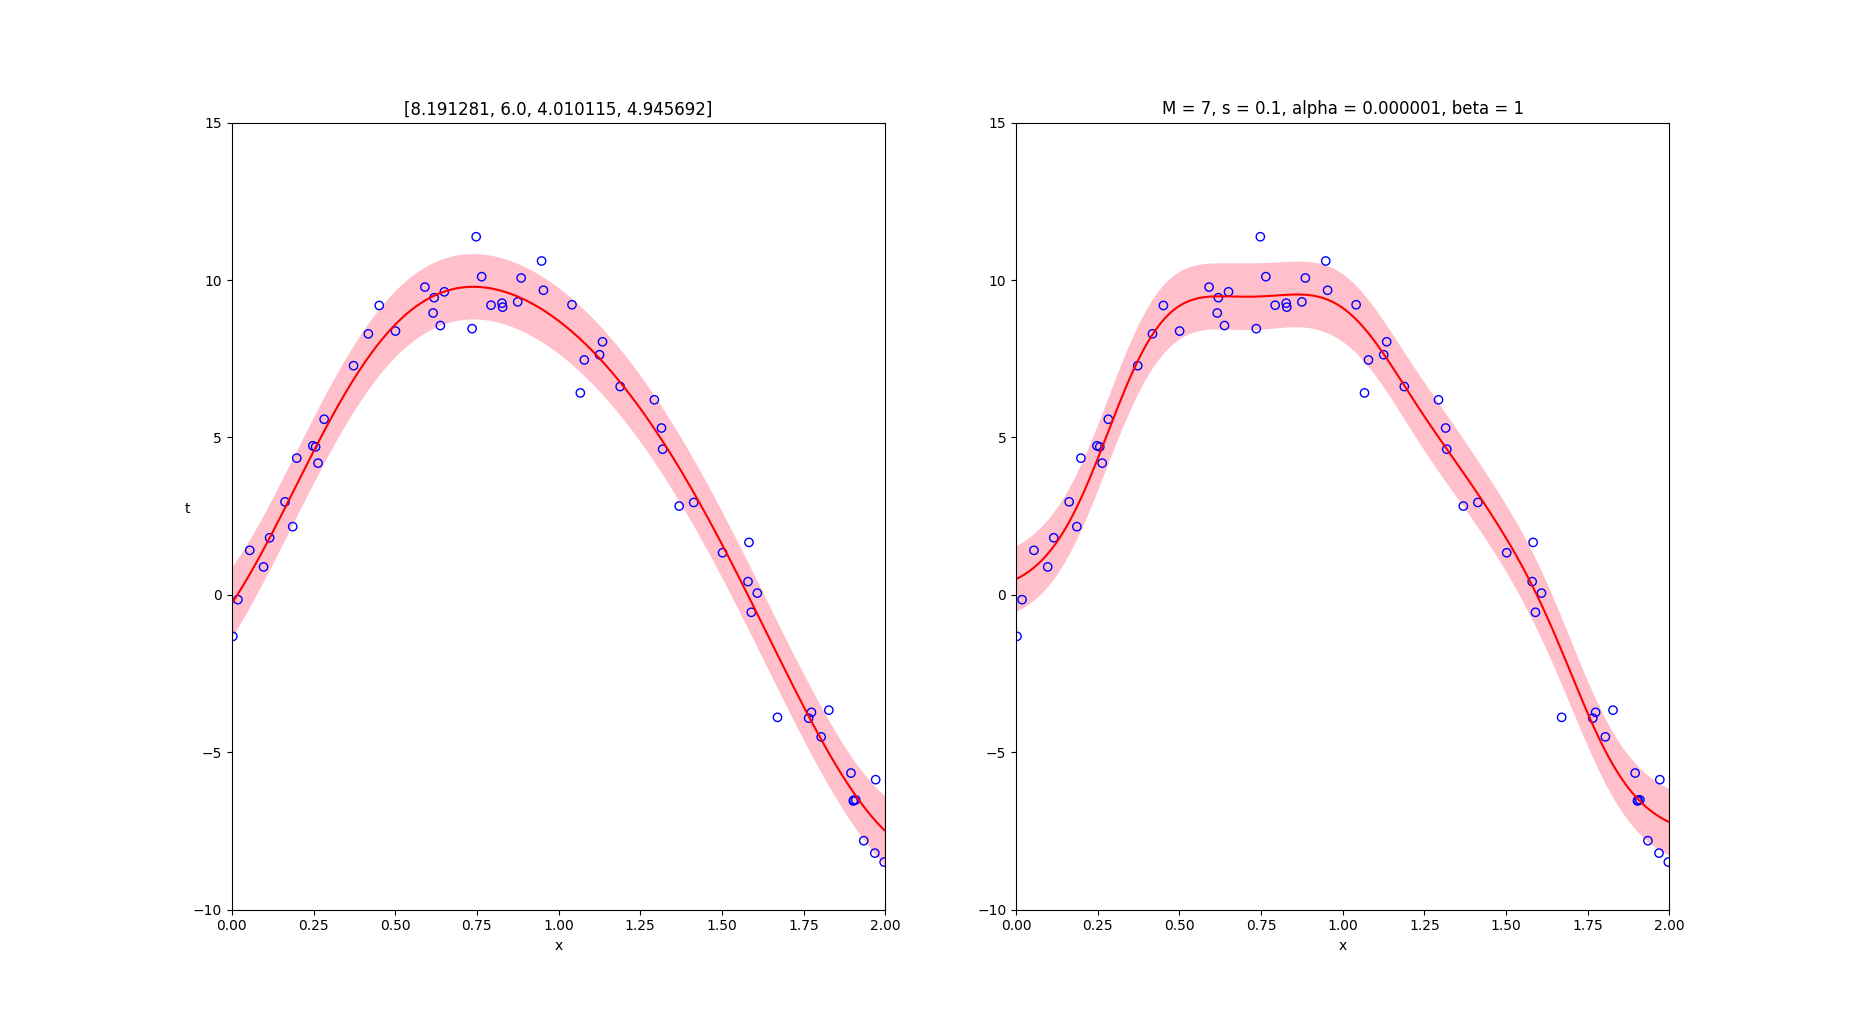
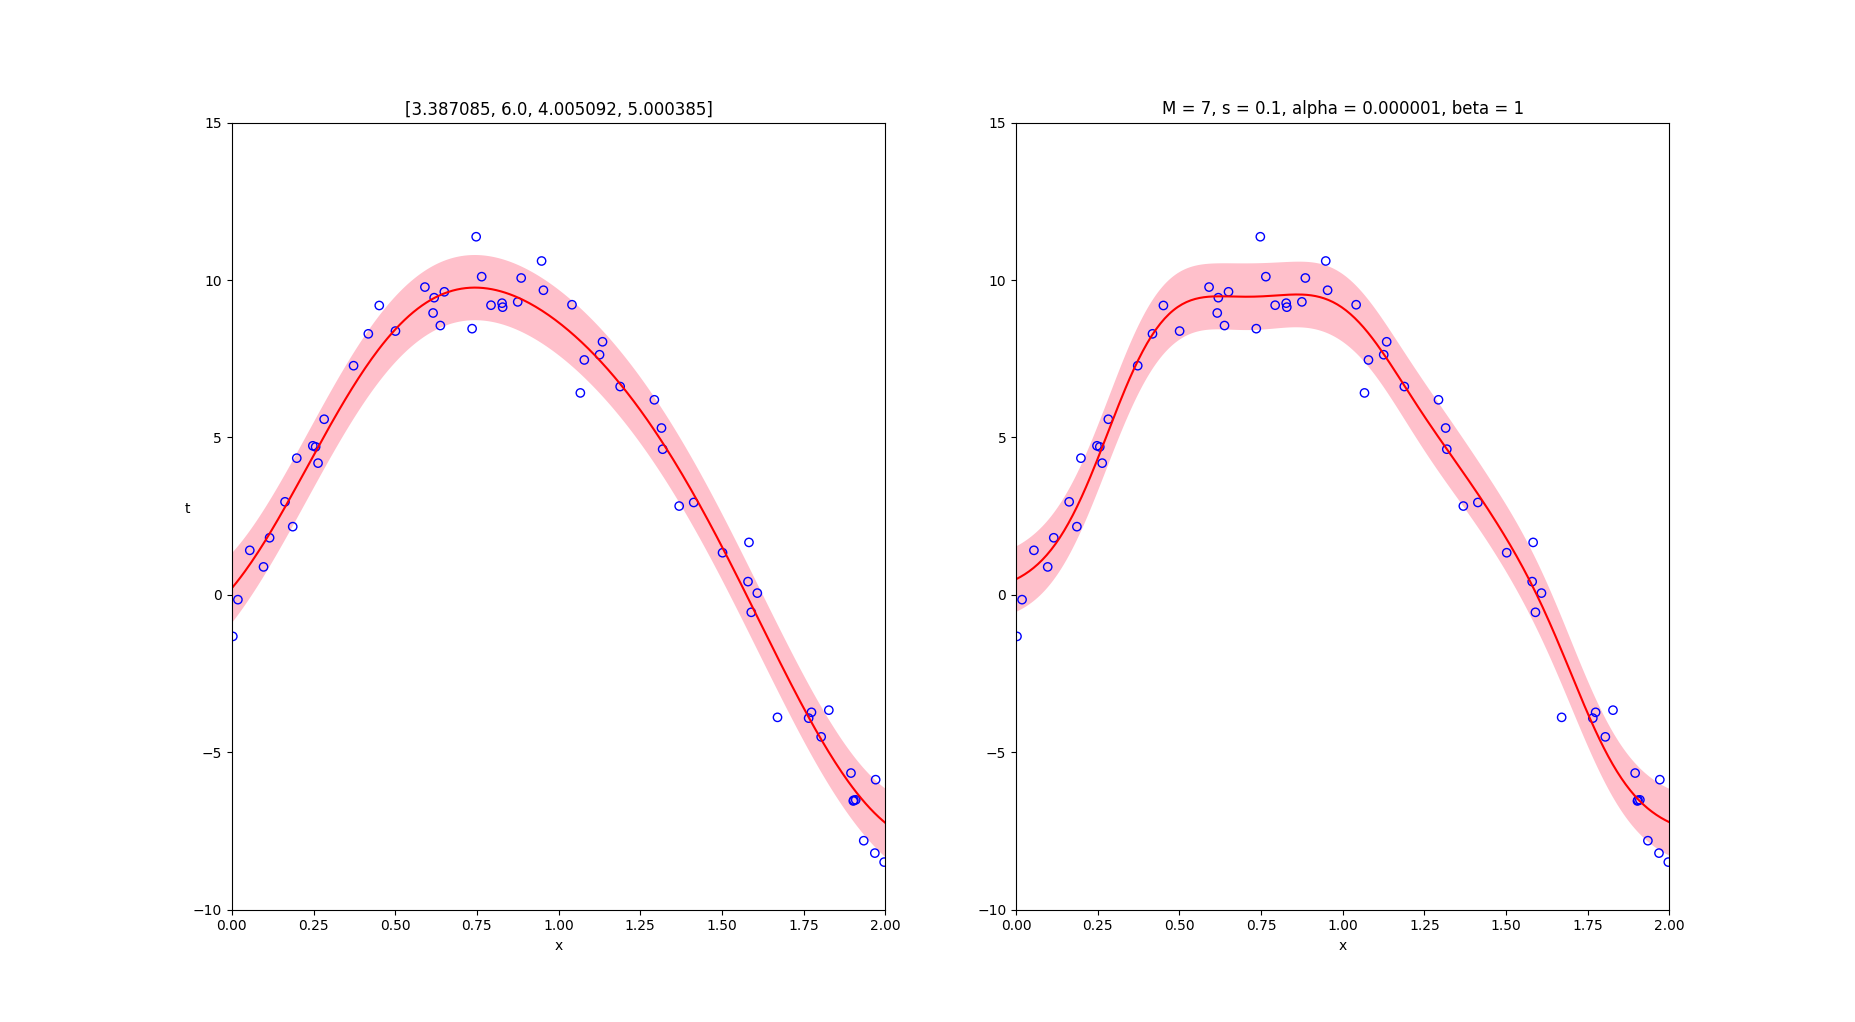
modified some errors.

diff --git a/svm.py b/svm.py
@@ -11,11 +11,15 @@ parser = argparse.ArgumentParser(description='ML HW3 - svm')
 def get_w_b(a, t, x):
     at = a*t
     w = at.dot(x)
-    Ns = np.count_nonzero(a)
-    indice = np.nonzero(a)[0]
-
-    b = np.sum(t[indice]) - np.sum(np.linalg.multi_dot([at[indice], x[indice], x[indice].T]))
-    b /= Ns
+    indice_s = np.nonzero(a)[0]
+    indice_m = np.where((0 < a) & (a < 1))[0]
+    Nm = len(indice_m)
+    Ns = len(indice_s)
+    if Nm == 0:
+        b = -1
+    else:
+        b = np.sum(t[indice_m]) - np.sum(np.linalg.multi_dot([at[indice_s], x[indice_s], x[indice_m].T]))
+        b /= Nm
     return w, b
 
 def predict(W, B, X, label):

diff --git a/ARD_gaussian_process.py b/ARD_gaussian_process.py
@@ -25,7 +25,7 @@ if __name__ == '__main__':
 
     parameters = [[3, 6, 4, 5]]
     dev_func = [0, 0, 0, 0]
-    learning_rate = 0.01
+    learning_rate = 0.001
 
     table = PrettyTable(["optimal parameters", "train error", "test error"])
 
@@ -53,7 +53,7 @@ if __name__ == '__main__':
         dev_func[3] = dev_log_like(C_inv, np.multiply.outer(train_x, train_x), train_t)
         parameters.append([p + learning_rate * dev for p, dev in zip(parameters[-1], dev_func)])
 
-        if max(map(abs, dev_func)) < 1:
+        if np.max(np.abs(dev_func)) < 6:
             break
 
     params = np.array(parameters)

diff --git a/README.md b/README.md
@@ -39,7 +39,7 @@ For ARD gaussian process
 +-------------------------------------+----------------+---------------+
 |          optimal parameters         |  train error   |   test error  |
 +-------------------------------------+----------------+---------------+
-| {8.191281, 6.0, 4.010115, 4.945692} | 0.804420485542 | 1.10355040593 |
+| {3.387085, 6.0, 4.005092, 5.000385} | 0.841025010819 | 1.12727668046 |
 +-------------------------------------+----------------+---------------+
 For bayesian linear regression
 +----------------+---------------+
@@ -78,6 +78,10 @@ k-means(k = 3)
 GMM(k = 3)
 
 ![](images/GMM_3.png)
+
+log likelihood curve when performing EM algorithm.
+
+![](images/gmm_3_log.png)
 
 It will also output the RGB value of the mean, like the following:
 
